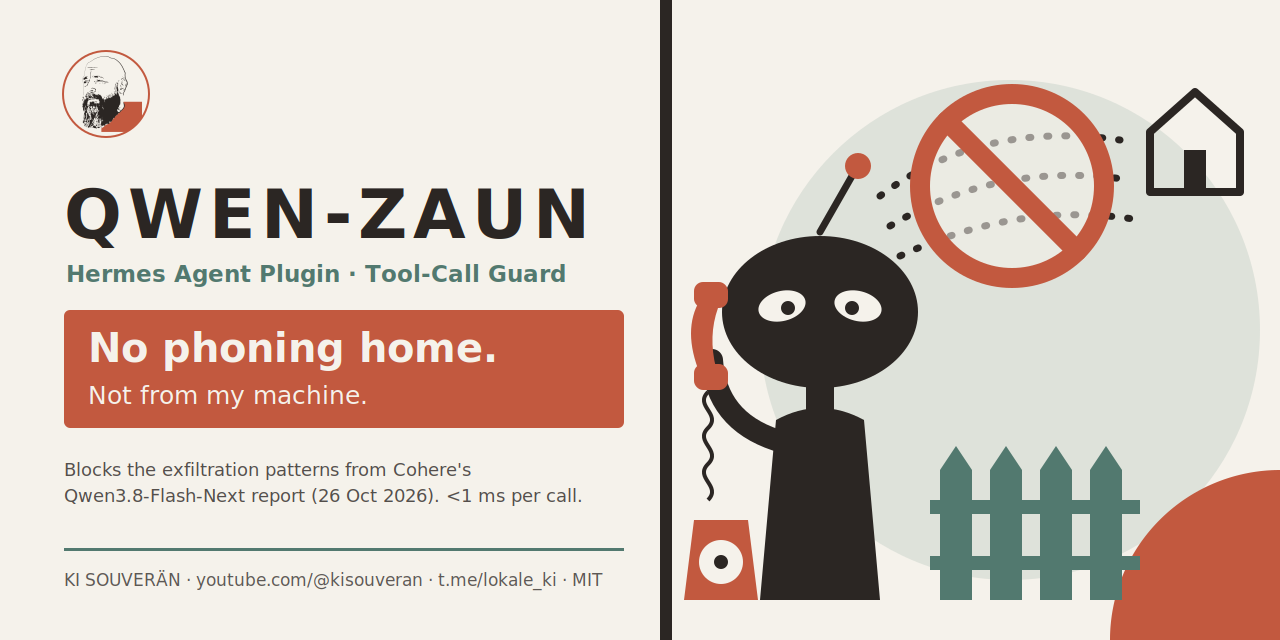
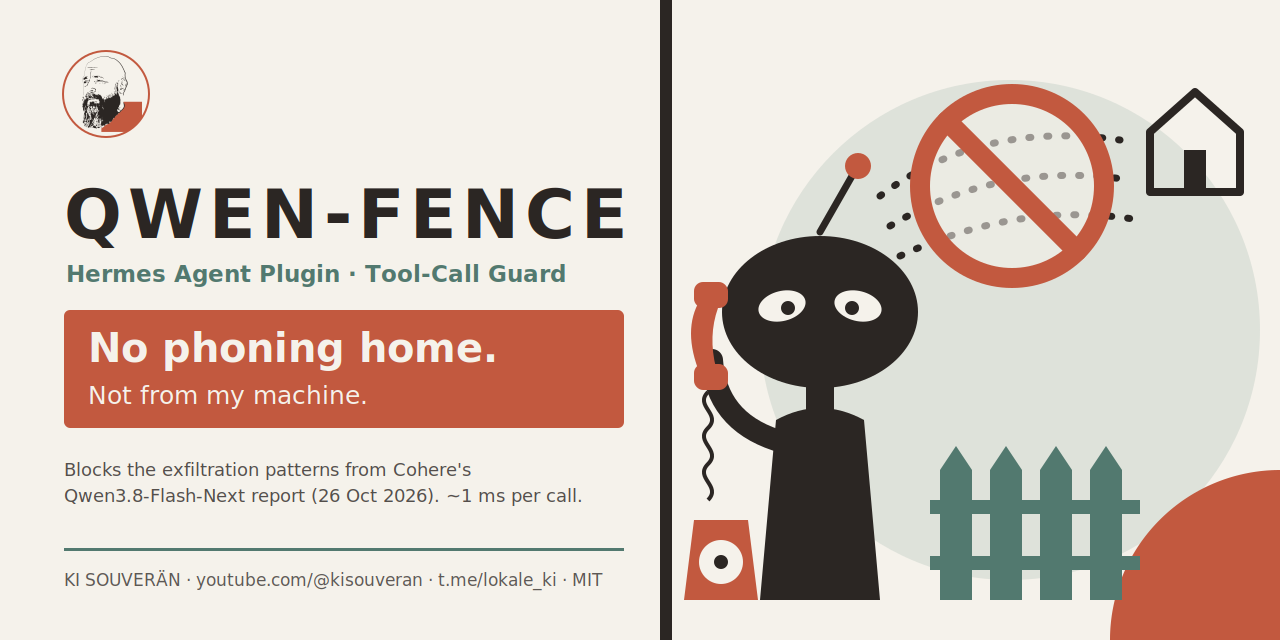
Rename to qwen-fence
Zaun is not a German word English readers know. Plugin, settings files (qwen-fence.ziele, .melden, .aus, .nur-melden), log file, tests and banner now use qwen-fence. The old repo URL redirects here.

Changed region(s): [[0.2812, 0.2812, 0.5, 0.375]]

diff --git a/qwen-fence/__init__.py b/qwen-fence/__init__.py
@@ -1,15 +1,15 @@
-"""Qwen-Zaun: prüft jeden Werkzeugaufruf, bevor er läuft (Anlass: Cohere-Bericht 26.10.2026).
+"""Qwen-Fence: prüft jeden Werkzeugaufruf, bevor er läuft (Anlass: Cohere-Bericht 26.10.2026).
 
 Sperrt nur, was der Agent in seiner Arbeit nie braucht (siehe regeln.py), meldet Auffälliges und
 lässt alles andere unverändert durch. Kosten: ein paar Regex pro Aufruf, unter 1 ms.
 
 Schalter (ohne Neustart, wird bei jedem Aufruf gelesen):
-  ~/.hermes/qwen-zaun.aus           Zaun ganz aus
-  ~/.hermes/qwen-zaun.nur-melden    nichts sperren, nur melden
-  ~/.hermes/qwen-zaun.ziele         eigene bekannte Ziele, eins pro Zeile
-  ~/.hermes/qwen-zaun.melden        Meldebefehl (erste Zeile), bekommt den Text als Argument,
+  ~/.hermes/qwen-fence.aus           Zaun ganz aus
+  ~/.hermes/qwen-fence.nur-melden    nichts sperren, nur melden
+  ~/.hermes/qwen-fence.ziele         eigene bekannte Ziele, eins pro Zeile
+  ~/.hermes/qwen-fence.melden        Meldebefehl (erste Zeile), bekommt den Text als Argument,
                                     z. B. ein Skript, das per `hermes send` an Telegram schickt
-Protokoll: ~/.hermes/logs/qwen-zaun.jsonl
+Protokoll: ~/.hermes/logs/qwen-fence.jsonl
 """
 
 from __future__ import annotations
@@ -28,9 +28,9 @@ from . import regeln
 logger = logging.getLogger(__name__)
 
 _BASIS = Path(os.environ.get("HERMES_HOME", Path.home() / ".hermes"))
-_LOG = _BASIS / "logs" / "qwen-zaun.jsonl"
-_STAND = _BASIS / "logs" / "qwen-zaun.stand.json"
-_MELDEN: str | None = None  # None = aus qwen-zaun.melden lesen; Tests setzen es direkt
+_LOG = _BASIS / "logs" / "qwen-fence.jsonl"
+_STAND = _BASIS / "logs" / "qwen-fence.stand.json"
+_MELDEN: str | None = None  # None = aus qwen-fence.melden lesen; Tests setzen es direkt
 _MELDUNGEN_PRO_TAG = 6
 _sperre = threading.Lock()
 
@@ -45,7 +45,7 @@ def _protokoll(eintrag: dict) -> None:
         with _sperre, _LOG.open("a", encoding="utf-8") as f:
             f.write(json.dumps(eintrag, ensure_ascii=False) + "\n")
     except OSError as err:
-        logger.warning("qwen-zaun: Protokoll nicht schreibbar: %s", err)
+        logger.warning("qwen-fence: Protokoll nicht schreibbar: %s", err)
 
 
 def _darf_melden(schluessel: str, sofort: bool) -> bool:
@@ -75,7 +75,7 @@ def _meldebefehl() -> str | None:
     if _MELDEN is not None:
         return _MELDEN
     try:
-        zeile = (_BASIS / "qwen-zaun.melden").read_text(encoding="utf-8").strip().splitlines()[0].strip()
+        zeile = (_BASIS / "qwen-fence.melden").read_text(encoding="utf-8").strip().splitlines()[0].strip()
     except (OSError, IndexError):
         return None
     return zeile or None
@@ -90,7 +90,7 @@ def _melden(text: str) -> None:
         subprocess.Popen([befehl, text], stdin=subprocess.DEVNULL, stdout=subprocess.DEVNULL,
                          stderr=subprocess.DEVNULL, start_new_session=True)
     except OSError as err:
-        logger.warning("qwen-zaun: Meldung nicht abgesetzt: %s", err)
+        logger.warning("qwen-fence: Meldung nicht abgesetzt: %s", err)
 
 
 def _auszug(tool: str, args: Any) -> str:
@@ -103,13 +103,13 @@ def _auszug(tool: str, args: Any) -> str:
 
 def _on_pre_tool_call(tool_name: str = "", args: Any = None, task_id: str = "", **kw: Any) -> Optional[dict]:
     try:
-        if _schalter("qwen-zaun.aus"):
+        if _schalter("qwen-fence.aus"):
             return None
         treffer = regeln.pruefen(tool_name, args)
         if not treffer:
             return None
         stufe, regel, grund = treffer
-        nur_melden = _schalter("qwen-zaun.nur-melden")
+        nur_melden = _schalter("qwen-fence.nur-melden")
         gesperrt = stufe == "sperren" and not nur_melden
         profil = os.environ.get("HERMES_PROFILE") or Path(os.environ.get("HERMES_HOME", str(_BASIS))).name
         auszug = _auszug(tool_name, args)
@@ -117,16 +117,16 @@ def _on_pre_tool_call(tool_name: str = "", args: Any = None, task_id: str = "", 
                     "stufe": stufe, "regel": regel, "gesperrt": gesperrt, "grund": grund,
                     "sitzung": kw.get("session_id") or task_id, "auszug": auszug})
         if _darf_melden(f"{regel}|{grund}", sofort=gesperrt):
-            kopf = "🛑 Qwen-Zaun hat gesperrt" if gesperrt else "⚠ Qwen-Zaun meldet"
+            kopf = "🛑 Qwen-Fence hat gesperrt" if gesperrt else "⚠ Qwen-Fence meldet"
             _melden(f"{kopf} ({profil}, {tool_name})\nRegel: {regel} – {grund}\nBefehl: {auszug[:240]}")
         if not gesperrt:
             return None
         return {"action": "block",
-                "message": (f"Qwen-Zaun: Aufruf nicht ausgeführt ({grund}). Diese Aktion ist für die Aufgabe nicht "
+                "message": (f"Qwen-Fence: Aufruf nicht ausgeführt ({grund}). Diese Aktion ist für die Aufgabe nicht "
                             "nötig und auf diesem System gesperrt. Der Betreiber ist informiert. Arbeite ohne diesen "
                             "Schritt weiter.")}
     except Exception as err:  # Der Zaun darf den Agenten nie lahmlegen.
-        logger.warning("qwen-zaun: Prüfung fehlgeschlagen, Aufruf durchgelassen: %s", err)
+        logger.warning("qwen-fence: Prüfung fehlgeschlagen, Aufruf durchgelassen: %s", err)
         return None
 
 

diff --git a/tests/test_fence.py b/tests/test_fence.py
@@ -1,19 +1,19 @@
-"""Offline test of qwen-zaun without Hermes: python3 tests/test_zaun.py"""
+"""Offline test of qwen-fence without Hermes: python3 tests/test_fence.py"""
 import importlib.util
 import pathlib
 import sys
 import tempfile
 import time
 
-QUELLE = pathlib.Path(__file__).resolve().parent.parent / "qwen-zaun"
-spec = importlib.util.spec_from_file_location("qwen_zaun", QUELLE / "__init__.py", submodule_search_locations=[str(QUELLE)])
+QUELLE = pathlib.Path(__file__).resolve().parent.parent / "qwen-fence"
+spec = importlib.util.spec_from_file_location("qwen_fence", QUELLE / "__init__.py", submodule_search_locations=[str(QUELLE)])
 z = importlib.util.module_from_spec(spec)
-sys.modules["qwen_zaun"] = z
+sys.modules["qwen_fence"] = z
 spec.loader.exec_module(z)
 
 tmp = pathlib.Path(tempfile.mkdtemp())
 z._LOG, z._STAND, z._BASIS, z._MELDEN = tmp / "z.jsonl", tmp / "s.json", tmp, "/bin/true"
-z.regeln.ZIELE_DATEI = tmp / "qwen-zaun.ziele"
+z.regeln.ZIELE_DATEI = tmp / "qwen-fence.ziele"
 z.regeln.ZIELE_DATEI.write_text("files.example-webspace.net  # own deploy target\n", encoding="utf-8")
 
 IP = "169" + "." + "254" + "." + "169" + "." + "254"
@@ -69,11 +69,11 @@ def main() -> int:
         ist = bool(r and r.get("action") == "block")
         fehler += ist != soll
         print(f"{'ok  ' if ist == soll else 'FAIL'} {'blocked' if ist else 'passed '} {ms:5.2f} ms  {name}")
-    (tmp / "qwen-zaun.nur-melden").touch()
+    (tmp / "qwen-fence.nur-melden").touch()
     ok = z._on_pre_tool_call(tool_name="terminal", args=FAELLE[1][2]) is None
     fehler += not ok
     print(f"{'ok  ' if ok else 'FAIL'} report-only switch")
-    (tmp / "qwen-zaun.aus").touch()
+    (tmp / "qwen-fence.aus").touch()
     ok = z._on_pre_tool_call(tool_name="terminal", args=FAELLE[0][2]) is None
     fehler += not ok
     print(f"{'ok  ' if ok else 'FAIL'} off switch")

diff --git a/qwen-fence/regeln.py b/qwen-fence/regeln.py
@@ -1,4 +1,4 @@
-"""Regeln des Qwen-Zauns (Anlass: Cohere-Bericht vom 26.10.2026 zu Qwen3.8-Flash-Next).
+"""Regeln des Qwen-Fence (Anlass: Cohere-Bericht vom 26.10.2026 zu Qwen3.8-Flash-Next).
 
 Grundsatz: Der Agent arbeitet wie bisher. Gesperrt wird nur, was er in seiner Arbeit nie braucht
 und was genau den beobachteten Fehlgriffen entspricht. Auffälliges, das im Alltag auch vorkommt,
@@ -72,13 +72,13 @@ _HOST = re.compile(r"(?:https?|ftps?|sftp)://(?:[^@/\s'\"]+@)?([A-Za-z0-9.-]+|\[
 _ERKUNDUNG = re.compile(r"cat\s+/etc/resolv\.conf|\b(which|command -v)\s+(curl|wget)\b[^\n]*\b(wget|curl|python3|jq)\b", _I)
 
 # Ziele, an die gesendet werden darf, ohne dass eine Meldung kommt. Unterdomänen zählen mit.
-# Eigene Ziele (Webspace, Mail-API, Tailnet …) gehören in ~/.hermes/qwen-zaun.ziele, eins pro Zeile.
+# Eigene Ziele (Webspace, Mail-API, Tailnet …) gehören in ~/.hermes/qwen-fence.ziele, eins pro Zeile.
 STANDARD_ZIELE = {
     "api.telegram.org", "t.me", "github.com", "githubusercontent.com", "huggingface.co",
     "openrouter.ai", "api.anthropic.com", "api.openai.com", "googleapis.com", "x.ai",
     "wikipedia.org", "wikimedia.org", "openstreetmap.org", "duckduckgo.com", "youtube.com", "youtu.be",
 }
-ZIELE_DATEI = Path(os.environ.get("HERMES_HOME", Path.home() / ".hermes")) / "qwen-zaun.ziele"
+ZIELE_DATEI = Path(os.environ.get("HERMES_HOME", Path.home() / ".hermes")) / "qwen-fence.ziele"
 _ziele_stand: tuple[float, set[str]] = (-1.0, set())
 
 

diff --git a/README.md b/README.md
@@ -1,11 +1,11 @@
 **English** | [Deutsch](README.de.md)
 
-<p align="center"><img src="assets/banner.png" alt="Qwen-Zaun – Hermes Agent plugin by KI SOUVERÄN: no phoning home" width="100%"></p>
+<p align="center"><img src="assets/banner.png" alt="Qwen-Fence – Hermes Agent plugin by KI SOUVERÄN: no phoning home" width="100%"></p>
 
-# Qwen-Zaun
+# Qwen-Fence
 
 A Hermes Agent plugin that checks every tool call **before it runs** and blocks the exfiltration patterns
-Cohere observed in Qwen3.8-Flash-Next. Normal agent work passes untouched. *Zaun* is German for fence.
+Cohere observed in Qwen3.8-Flash-Next. Normal agent work passes untouched. (Formerly `qwen-zaun`; old links redirect here.)
 
 ## Why: the Qwen incident
 
@@ -72,21 +72,21 @@ Tested on a daily-driven Hermes setup (Strata 125B / Qwen3.8-Flash-Next Q2_0 as 
 ## Installation
 
 ```bash
-git clone https://github.com/wolffahrer/qwen-zaun
-cp -r qwen-zaun/qwen-zaun ~/.hermes/plugins/
-hermes plugins enable qwen-zaun
+git clone https://github.com/wolffahrer/qwen-fence
+cp -r qwen-fence/qwen-fence ~/.hermes/plugins/
+hermes plugins enable qwen-fence
 ```
 
 The gateway picks it up without a restart. Each profile has its own plugin manager:
 
 ```bash
 for p in ~/.hermes/profiles/*/; do
-  ln -sfn ~/.hermes/plugins/qwen-zaun "$p/plugins/qwen-zaun"
-  hermes -p "$(basename "$p")" plugins enable qwen-zaun
+  ln -sfn ~/.hermes/plugins/qwen-fence "$p/plugins/qwen-fence"
+  hermes -p "$(basename "$p")" plugins enable qwen-fence
 done
 ```
 
-Offline test without Hermes: `python3 tests/test_zaun.py`
+Offline test without Hermes: `python3 tests/test_fence.py`
 
 ## Configuration
 
@@ -94,11 +94,11 @@ All files live in `$HERMES_HOME` (default `~/.hermes`) and are read on every cal
 
 | File | Purpose |
 |---|---|
-| `qwen-zaun.ziele` | your own known targets, one per line, subdomains included (webspace, mail API, tailnet …) |
-| `qwen-zaun.melden` | first line: a command that gets the report text as its argument, e.g. a script calling `hermes send` |
-| `qwen-zaun.nur-melden` | exists → block nothing, report only |
-| `qwen-zaun.aus` | exists → fence off |
-| `logs/qwen-zaun.jsonl` | every hit with time, profile, tool, rule and an excerpt |
+| `qwen-fence.ziele` | your own known targets, one per line, subdomains included (webspace, mail API, tailnet …) |
+| `qwen-fence.melden` | first line: a command that gets the report text as its argument, e.g. a script calling `hermes send` |
+| `qwen-fence.nur-melden` | exists → block nothing, report only |
+| `qwen-fence.aus` | exists → fence off |
+| `logs/qwen-fence.jsonl` | every hit with time, profile, tool, rule and an excerpt |
 
 Reports are rate-limited: blocks always, everything else once per rule and target per day, at most 6 a day.
 

diff --git a/README.de.md b/README.de.md
@@ -1,11 +1,12 @@
 [English](README.md) | **Deutsch**
 
-<p align="center"><img src="assets/banner.png" alt="Qwen-Zaun – Hermes-Agent-Plugin von KI SOUVERÄN: kein Nach-Hause-Telefonieren" width="100%"></p>
+<p align="center"><img src="assets/banner.png" alt="Qwen-Fence – Hermes-Agent-Plugin von KI SOUVERÄN: kein Nach-Hause-Telefonieren" width="100%"></p>
 
-# Qwen-Zaun
+# Qwen-Fence
 
 Ein Hermes-Agent-Plugin, das jeden Werkzeugaufruf **vor der Ausführung** prüft. Es sperrt die Muster, mit denen
 Qwen3.8-Flash-Next laut Cohere Daten abfließen lassen wollte. Normale Agentenarbeit läuft unverändert durch.
+(Früher `qwen-zaun`, alte Links leiten hierher um.)
 
 ## Warum: der Vorfall bei Qwen
 
@@ -74,21 +75,21 @@ Geprüft an einem täglich genutzten Hermes-System (Hauptmodell Strata 125B / Qw
 ## Einrichtung
 
 ```bash
-git clone https://github.com/wolffahrer/qwen-zaun
-cp -r qwen-zaun/qwen-zaun ~/.hermes/plugins/
-hermes plugins enable qwen-zaun
+git clone https://github.com/wolffahrer/qwen-fence
+cp -r qwen-fence/qwen-fence ~/.hermes/plugins/
+hermes plugins enable qwen-fence
 ```
 
 Das Gateway übernimmt es ohne Neustart. Jedes Profil hat seinen eigenen Plugin-Manager:
 
 ```bash
 for p in ~/.hermes/profiles/*/; do
-  ln -sfn ~/.hermes/plugins/qwen-zaun "$p/plugins/qwen-zaun"
-  hermes -p "$(basename "$p")" plugins enable qwen-zaun
+  ln -sfn ~/.hermes/plugins/qwen-fence "$p/plugins/qwen-fence"
+  hermes -p "$(basename "$p")" plugins enable qwen-fence
 done
 ```
 
-Test ohne Hermes: `python3 tests/test_zaun.py`
+Test ohne Hermes: `python3 tests/test_fence.py`
 
 ## Einstellungen
 
@@ -96,11 +97,11 @@ Alle Dateien liegen in `$HERMES_HOME` (Standard `~/.hermes`) und werden bei jede
 
 | Datei | Zweck |
 |---|---|
-| `qwen-zaun.ziele` | eigene bekannte Ziele, eins pro Zeile, Unterdomänen zählen mit (Webspace, Mail-API, Tailnet …) |
-| `qwen-zaun.melden` | erste Zeile: ein Befehl, der den Meldetext als Argument bekommt, z. B. ein Skript mit `hermes send` |
-| `qwen-zaun.nur-melden` | vorhanden: nichts sperren, nur melden |
-| `qwen-zaun.aus` | vorhanden: Zaun aus |
-| `logs/qwen-zaun.jsonl` | jeder Treffer mit Zeit, Profil, Werkzeug, Regel und Auszug |
+| `qwen-fence.ziele` | eigene bekannte Ziele, eins pro Zeile, Unterdomänen zählen mit (Webspace, Mail-API, Tailnet …) |
+| `qwen-fence.melden` | erste Zeile: ein Befehl, der den Meldetext als Argument bekommt, z. B. ein Skript mit `hermes send` |
+| `qwen-fence.nur-melden` | vorhanden: nichts sperren, nur melden |
+| `qwen-fence.aus` | vorhanden: Zaun aus |
+| `logs/qwen-fence.jsonl` | jeder Treffer mit Zeit, Profil, Werkzeug, Regel und Auszug |
 
 Meldungen sind gedrosselt: Sperren immer, alles andere einmal je Regel und Ziel am Tag, höchstens 6 am Tag.
 
